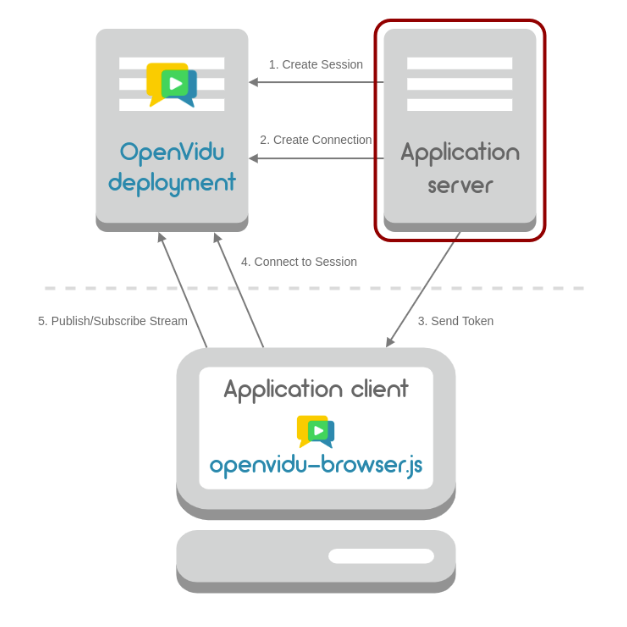
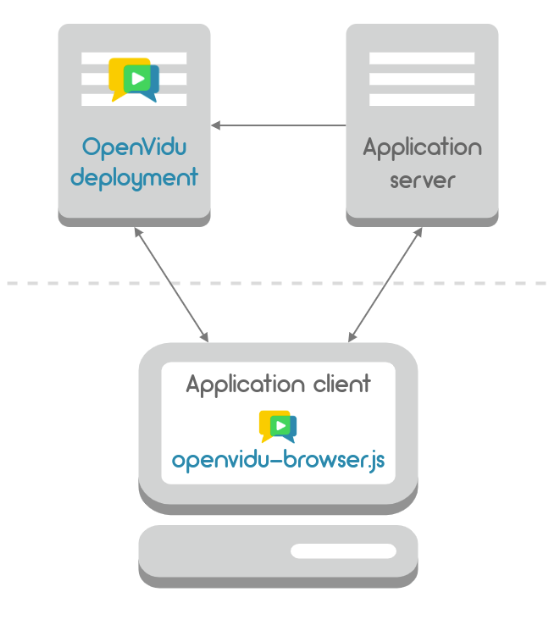
add : openvidu 기본 개념

diff --git a/content/Tips/SSAFY/openvidu-series/openvidu-intro/index.md b/content/Tips/SSAFY/openvidu-series/openvidu-intro/index.md
@@ -14,6 +14,8 @@ SSAFY 2학기에 접어들면서 저 포함 6명의
 
 원래는 openvidu를 온프레미스로 구축한 경험글 하나로 퉁쳐서  
 작성하려 했는데 생각보다 내용이 많아서 따로 정리하게 됩니다.
+<br/>
+<br/>
 
 ## WebRTC(Web Real-Time Communication)란
 
@@ -32,6 +34,8 @@ SSAFY 2학기에 접어들면서 저 포함 6명의
 <br/>
 
 ### Signaling / Server
+
+<br/>
 
 - 서로 다른 네트워크 환경에 있는 두 개의 peer간에 통신을 위해서는 서로 상대방의 정보(위치 및 포맷)을 먼저 파악할 필요가 있음
 - RTCPeerConnection들이 적절하게 데이터를 교환할 수 있게 처리해주는 과정
@@ -54,13 +58,13 @@ STUN/TURN 서버르 통해 찾아낸 주소를 Candidate라 한다.
 ```
 
 <br/>
+<br/>
 
 ### STUN(Session Traversal Utilities for NAT) Server
 
 - 통상적인 네트워크에서 통신하기 위해서는 Public IP를 필요로 하며, NAT 환경(사설망)에 놓인 클라이언트는 자신의 Public IP를 알지 못한다.
 - STUN 서버는 peer 자신의 Public IP를 알려주는 서버
 
-<br/>
 <br/>
 <br/>
 
@@ -72,6 +76,7 @@ STUN/TURN 서버르 통해 찾아낸 주소를 Candidate라 한다.
 
 [더욱 자세하게 설명되어있는 글입니다.](https://velog.io/@yyong3519/WebRTC-%EA%B0%9C%EB%85%90#webrtc-%EC%9A%A9%EC%96%B4-%EC%A0%95%EB%A6%AC)
 
+<br/>
 <br/>
 <br/>
 <br/>
@@ -88,12 +93,12 @@ STUN/TURN 서버르 통해 찾아낸 주소를 Candidate라 한다.
 
 <br/>
 <br/>
-<br/>
 
 ### Openvidu의 구조
 
+<br/>
+
 ![openvidu-구조](02.png)
-<br>
 <br>
 openvidu의 대략적인 구조는 다음과 같습니다.
 
@@ -110,12 +115,12 @@ openvidu의 대략적인 구조는 다음과 같습니다.
 
 <br/>
 <br/>
-<br/>
 
 ### Openvidu의 기본 개념
 
-![openvidu-구조](03.png)
 <br/>
+
+![openvidu-구조](03.png)
 <br/>
 
 - Session(세션)
@@ -140,6 +145,11 @@ openvidu의 대략적인 구조는 다음과 같습니다.
 <br/>
 
 ### Openvidu Session의 흐름도
+
+<br/>
+
+![openvidu 흐름](04.png)
+<br/>
 
 1. Application server에서 Session을 초기화 함
 2. Application server에서 Session에 대한 Connection을 생성함. 이 때 Connection은 Session에 참가자 수 만큼 생성해야함. 각각의 Session은 Session에 단일 접속하게 해주는 Token을 가짐

diff --git a/content/Tips/SSAFY/openvidu-series/openvidu-deployment-test/index.md b/content/Tips/SSAFY/openvidu-series/openvidu-deployment-test/index.md
@@ -1,7 +1,7 @@
 ---
 emoji: 💻
-title: Openvidu Deployment 구축 후기 (미작성)
-date: '2023-07-25 00:00:00'
+title: Openvidu Deployment 구축 후기
+date: '2023-08-05 00:00:00'
 author: 하이영
 tags: EC2 아키텍처 openvidu docker
 categories: 개발공부
@@ -9,7 +9,7 @@ categories: 개발공부
 
 ## 개요
 
-SSAFY 2학기에 접어들면서 저 포함 6명의
+앞서 글에서 설명한 것처럼 SSAFY 2학기에 접어들면서 저 포함 6명의
 팀원이 함께 공통프로젝트를 진행하게 되었습니다.
 
 공통프로젝트는 WebRTC를 이용한 프로젝트를 진행하게 되는데 제 개인  
